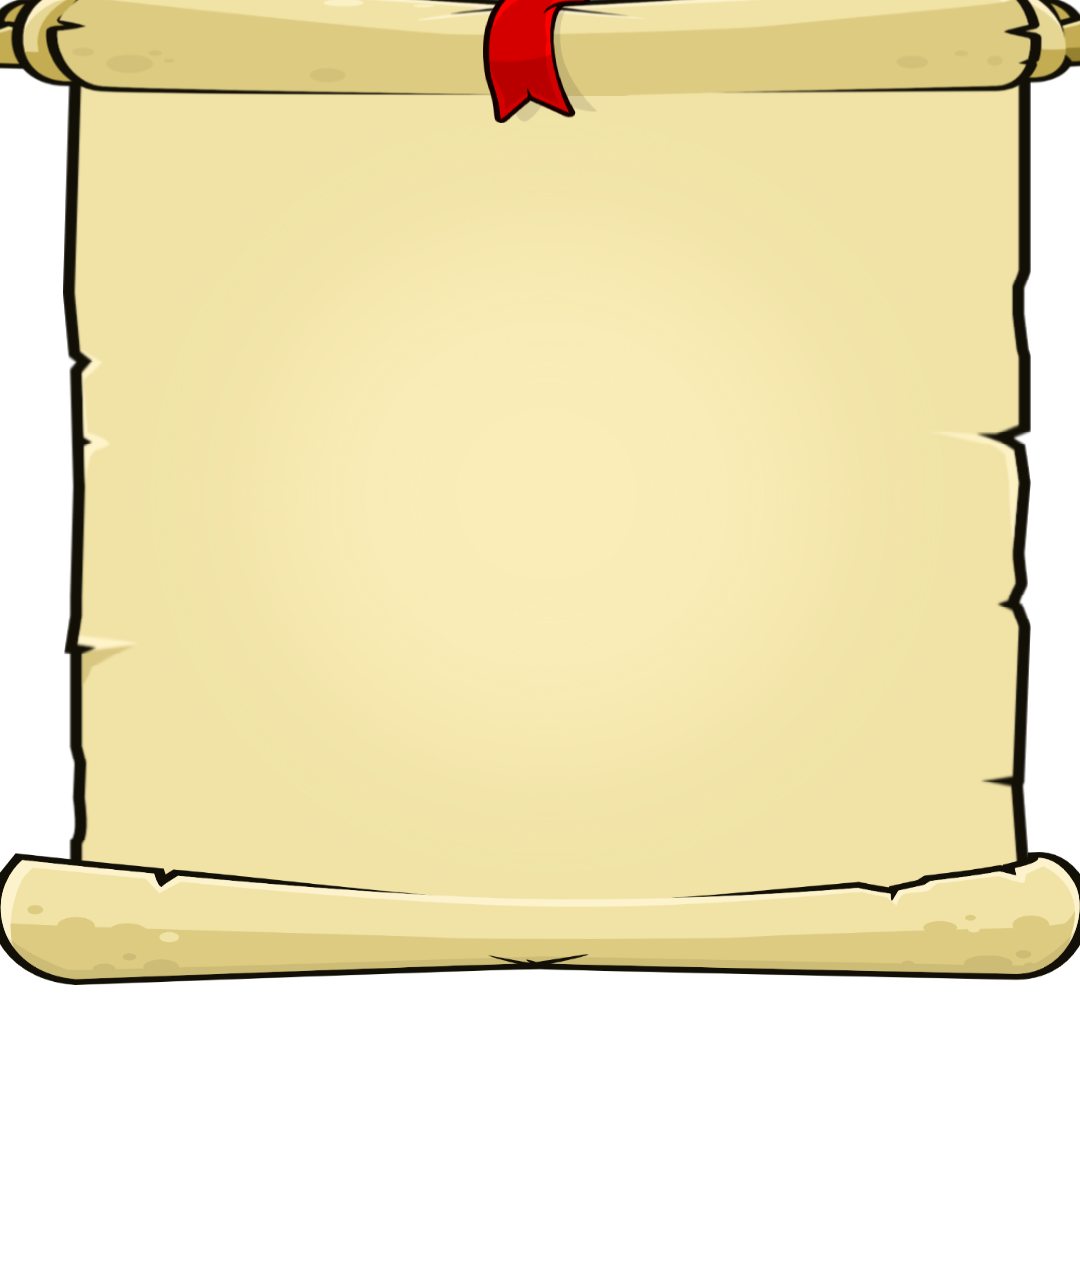
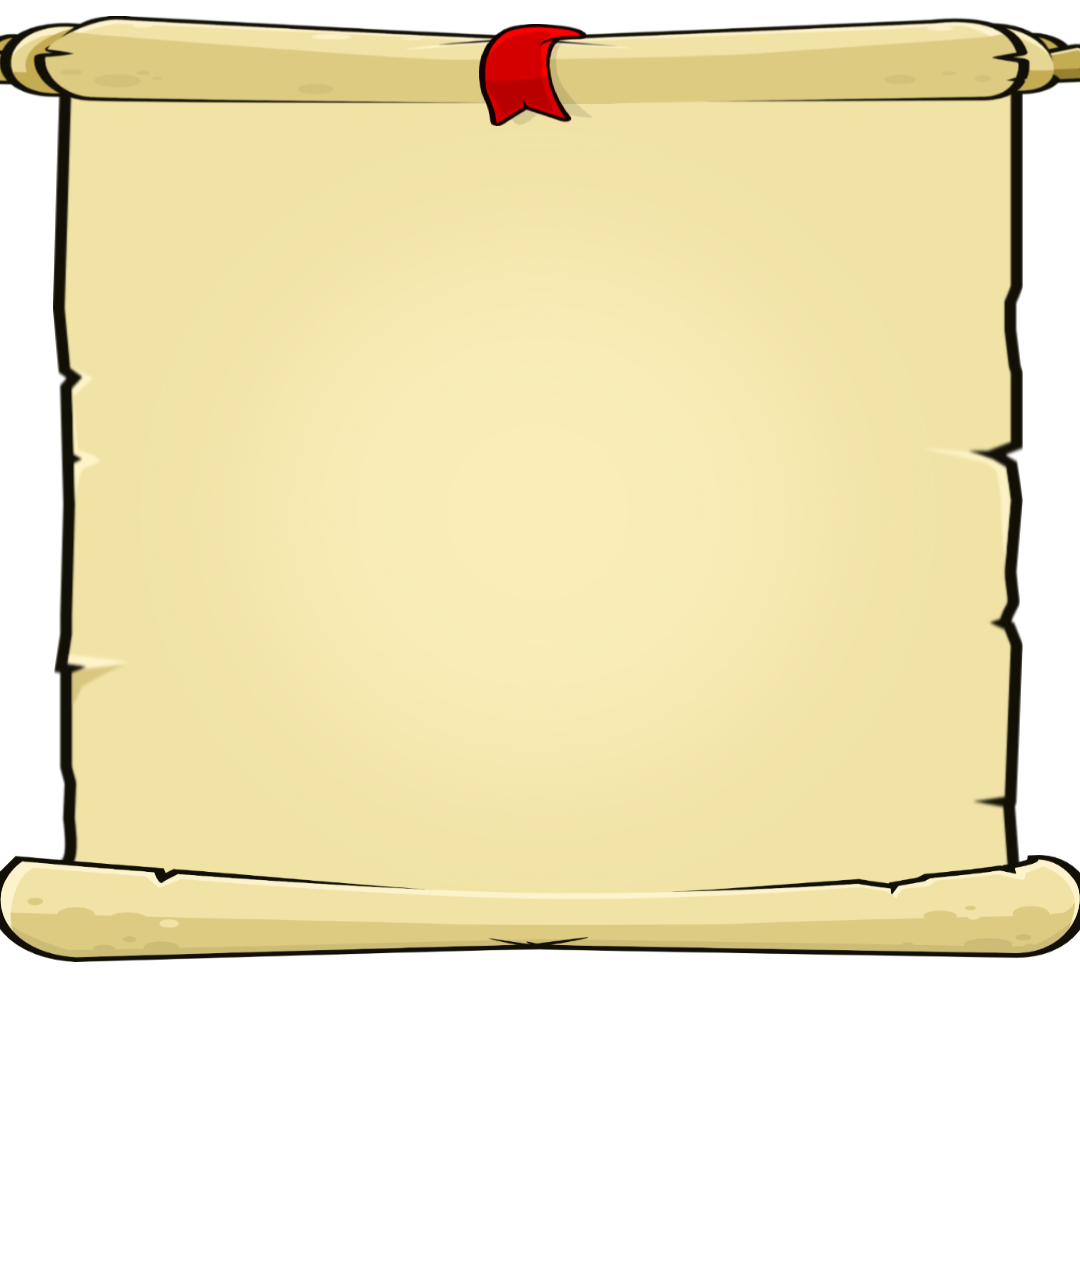
scrolls updated for left and right side of page

Changed region(s): [[0.0, 0.0, 1.0, 0.7812]]

diff --git a/app/assets/stylesheets/pages/_quests.scss b/app/assets/stylesheets/pages/_quests.scss
@@ -1,15 +1,18 @@
 .quest-background {
-  background: url('quest_background.png') no-repeat center top;
+  background: url('quest_background_left.png') no-repeat center top;
   background-size: cover;
-  min-height: 100vh;
+  min-height: 80vh;
   display: flex;
   justify-content: center;
-  padding: 50px 0;
+  padding: 20px 0;
+  margin-left: 10px;
+  padding-bottom: 100px;
 }
 
 .quest-container {
   background-color: transparent !important;
   border-color: transparent !important;
+  margin-top: 60px;
 }
 
 .guild-board {
@@ -57,10 +60,37 @@
   padding: 5px 10px;
 }
 
-.btn-complete-text {
+.text-active {
    color: #6f4e0f
 }
 
+.link-button {
+  background: transparent !important;
+  border: 0 !important;
+  padding: 0 !important;
+  box-shadow: none !important;
+  font: inherit;                /* keeps your Press Start font */
+  cursor: pointer;
+}
+
+.text-completed {
+  color:#b4914f
+}
+
+form.button_to {
+  display: inline-block;
+  margin: 0;
+}
+
+form.button_to button {
+  display: flex !important;
+  align-items: center !important;
+  justify-content: center !important;
+  height: 40px; /* adjust to your desired height */
+  line-height: normal;
+  padding: 0 12px;
+  border: none;
+}
 // .guild-board {
 //   max-height: 0;
 //   overflow: hidden;
